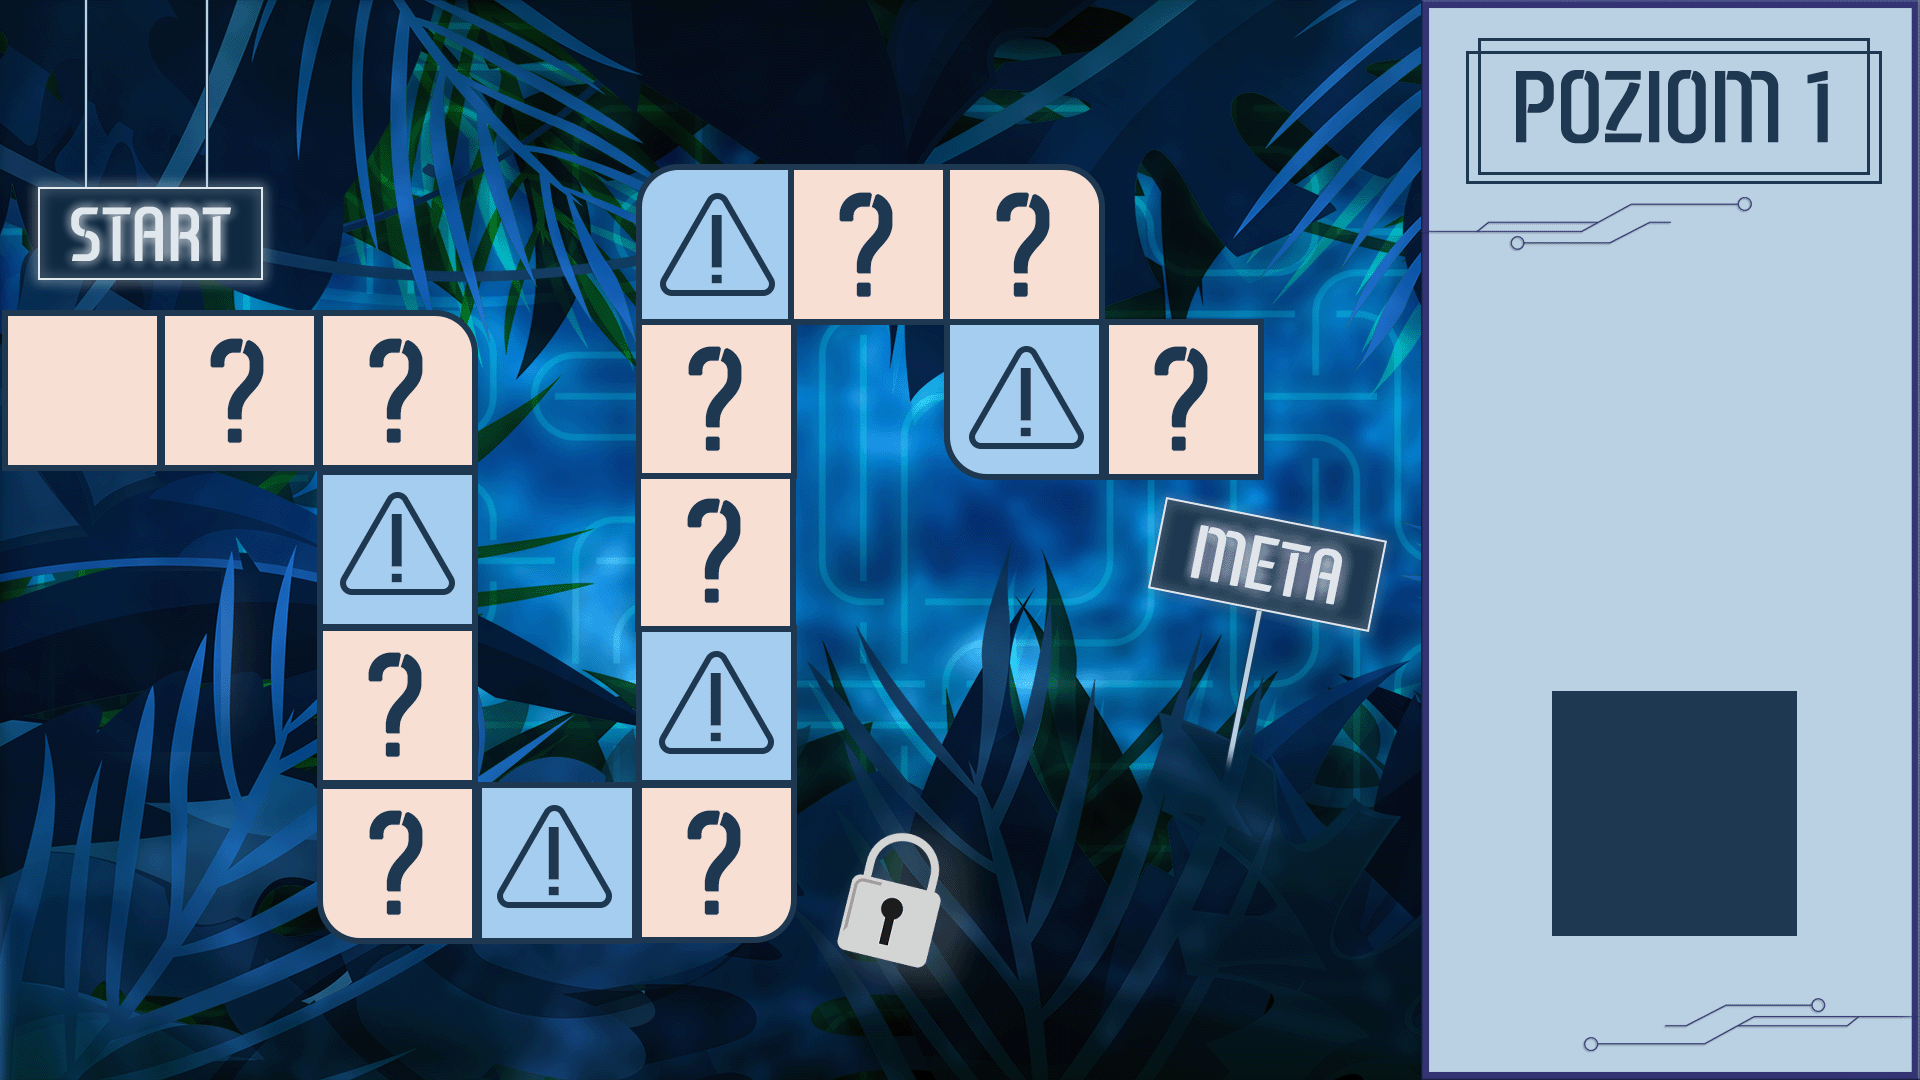
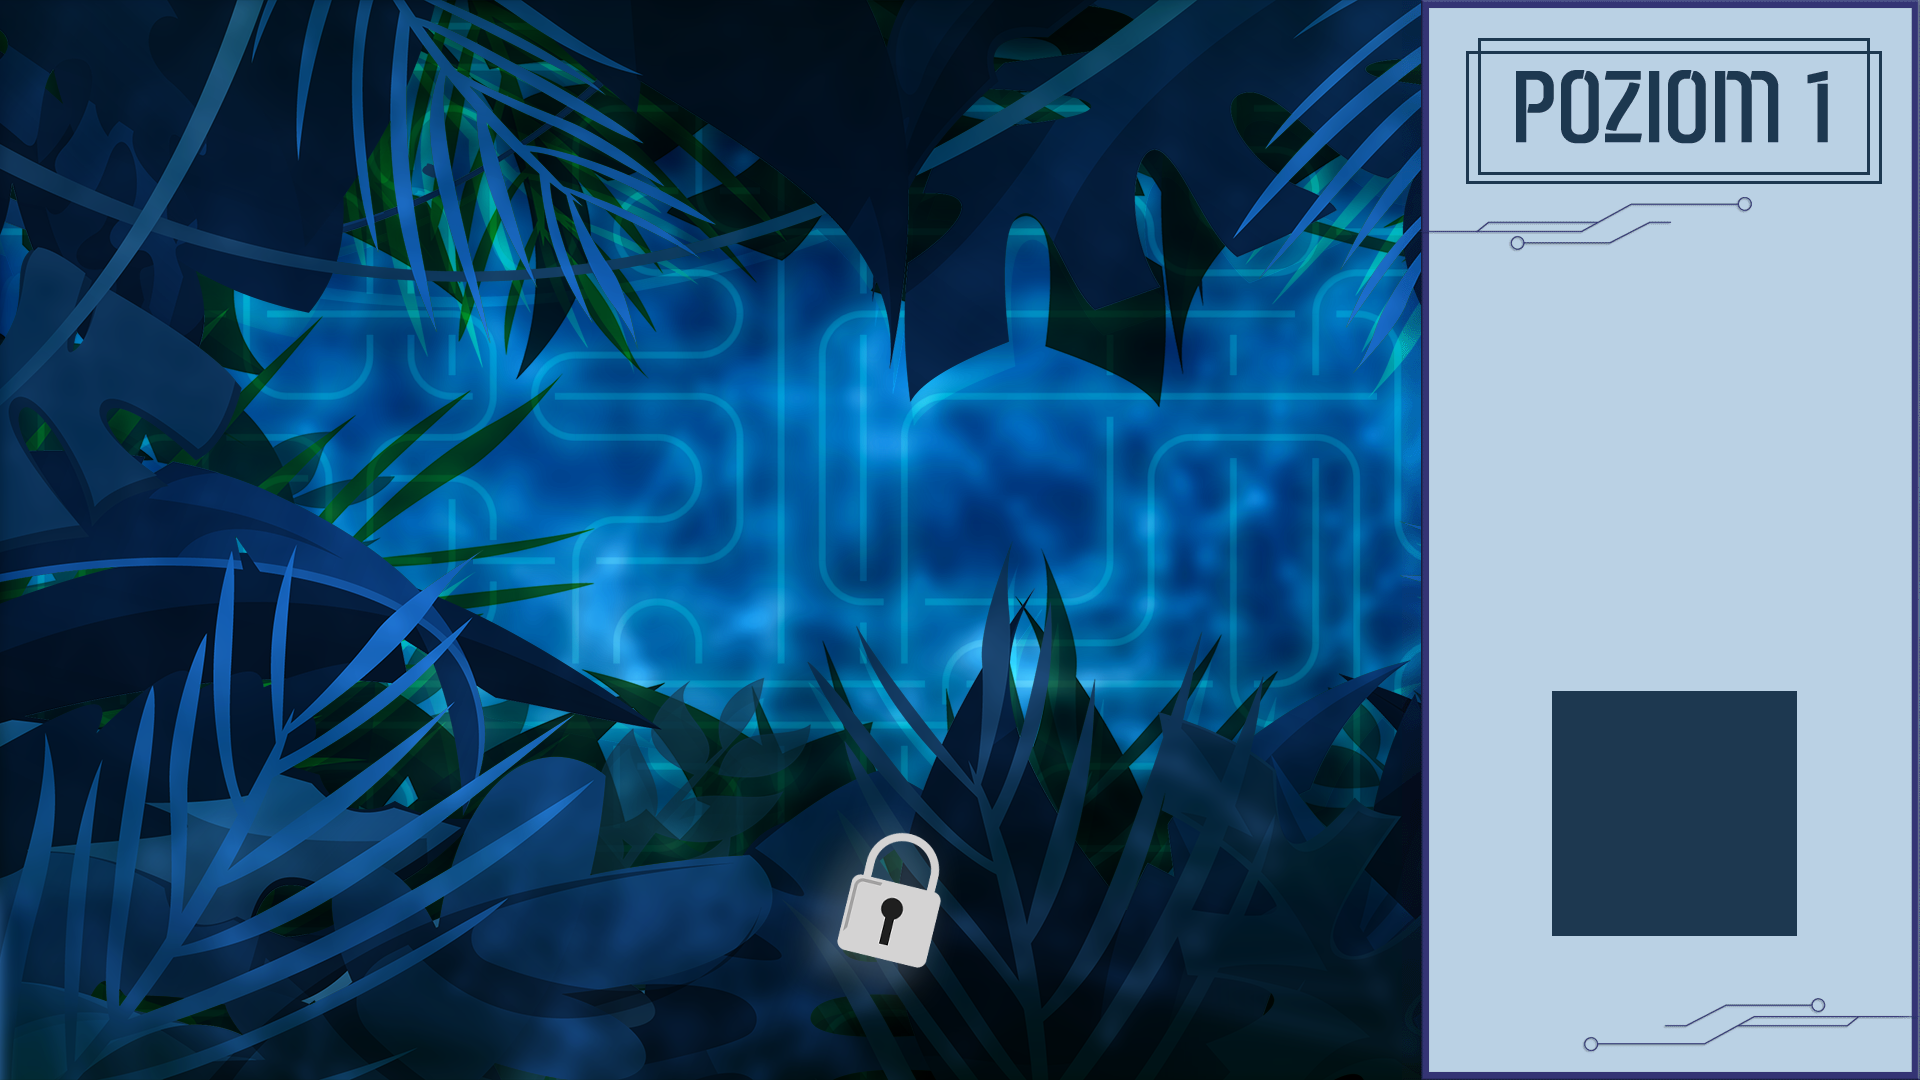
new html elemnts in main game component

Changed region(s): [[0.0, 0.1528, 0.7188, 0.9167]]

diff --git a/src/components/SceneMain2.vue b/src/components/SceneMain2.vue
@@ -375,6 +375,9 @@ function clickWithMouse() {
 </script>
 <template>
     <div class="tlo_main2" role="img" alt="tło" aria-label="gra planszowa - poziom 2"></div>
+     <div class="ikona-start" role="img" alt="ikona" aria-label="miejsce startu gry"></div>
+    <div class="trasa" role="img" alt="grafika" aria-label="trasa gry zawierająca 16 pól"></div>
+    <div class="ikona-meta" role="img" alt="ikona" aria-label="miejsce mety gry"></div>
     <div class="pionek1" :style="{ left: pionek_left + 'px', top: pionek_top + 'px' }" role="img" alt="pionek"
         aria-label="Pionek"></div>
     <h3 class="szanse-napis">szanse:</h3>
@@ -414,6 +417,43 @@ function clickWithMouse() {
     left: 0px;
     position: absolute;
 }
+
+.ikona-start {
+    background-image: url("../assets/start_poziom2.png");
+    background-size: 255px 305px;
+    background-repeat: no-repeat;
+    position: absolute;
+    height: 305px;
+    width: 255px;
+    top: -18px;
+    left: 23px;
+    z-index: 0;
+}
+
+.trasa{
+    background-image: url("../assets/sama_plansza.png");
+    background-size: 1280px 799px;
+    background-repeat: no-repeat;
+    position: absolute;
+    height: 799px;
+    width: 1280px;
+    top: 155px;
+    left: 0px;
+    z-index: 0;
+}
+
+.ikona-meta{
+    background-image: url("../assets/meta_poziom2.png");
+    background-size: 267px 288px;
+    background-repeat: no-repeat;
+    position: absolute;
+    height: 288px;
+    width: 267px;
+    top: 482px;
+    left: 1133px;
+    z-index: 0;
+}
+
 
 .pionek1 {
     background-image: url("../assets/pionek1.png");

diff --git a/src/components/SceneMain1.vue b/src/components/SceneMain1.vue
@@ -391,6 +391,9 @@ function clickWithMouse(){
 </script>
 <template>
     <div class="tlo2" role="img" alt="tło" aria-label="gra planszowa - poziom1"></div>
+    <div class="ikona-start" role="img" alt="ikona" aria-label="miejsce startu gry"></div>
+    <div class="trasa" role="img" alt="grafika" aria-label="trasa gry zawierająca 16 pól"></div>
+    <div class="ikona-meta" role="img" alt="ikona" aria-label="miejsce mety gry"></div>
     <div class="pionek1" :style="{ left: pionek_left + 'px', top: pionek_top + 'px' }" role="img" alt="ikona"
         aria-label="Pionek"></div>
     <h3 class="szanse-napis">szanse:</h3>
@@ -423,6 +426,43 @@ function clickWithMouse(){
     left: 0px;
     position: absolute;
 }
+
+.ikona-start {
+    background-image: url("../assets/start_poziom1.png");
+    background-size: 255px 305px;
+    background-repeat: no-repeat;
+    position: absolute;
+    height: 305px;
+    width: 255px;
+    top: -18px;
+    left: 23px;
+    z-index: 0;
+}
+
+.trasa{
+    background-image: url("../assets/sama_plansza.png");
+    background-size: 1280px 799px;
+    background-repeat: no-repeat;
+    position: absolute;
+    height: 799px;
+    width: 1280px;
+    top: 155px;
+    left: 0px;
+    z-index: 0;
+}
+
+.ikona-meta{
+    background-image: url("../assets/meta_poziom1.png");
+    background-size: 267px 288px;
+    background-repeat: no-repeat;
+    position: absolute;
+    height: 288px;
+    width: 267px;
+    top: 482px;
+    left: 1133px;
+    z-index: 0;
+}
+
 
 .pionek1 {
     background-image: url("../assets/pionek1.png");

diff --git a/src/components/MainComp.vue b/src/components/MainComp.vue
@@ -268,7 +268,7 @@ onMounted(async () => {
 
 
 <template>
-    <div>
+    <div lang="pl" role="application">
         <ScenaStart v-if="if_plansza_poczatkowa" @koniec-planszy="change()" @instrukcja-focus="changeFocusOn" />
         <SceneInstruction v-if="if_instrukcja" @koniec-instrukcja="change_instrukcja()"
             @koniec-instrukcja-focus="changeInstrukcjaFocusOn" :ifButtonOnFocus="ifInstructionFocusOn" />
